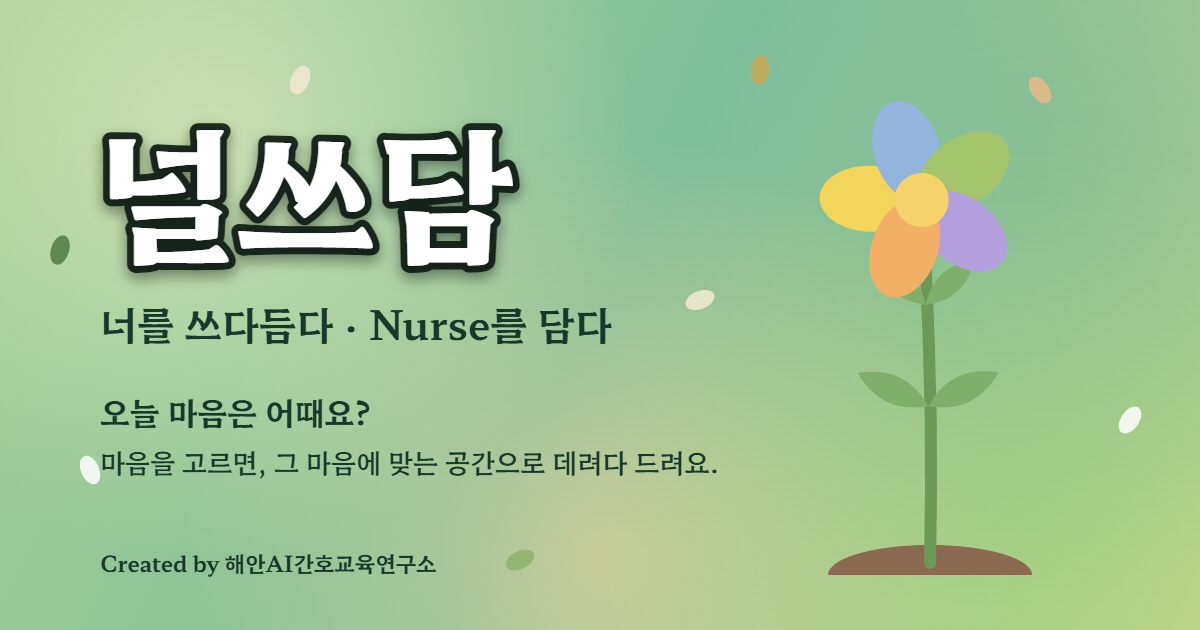
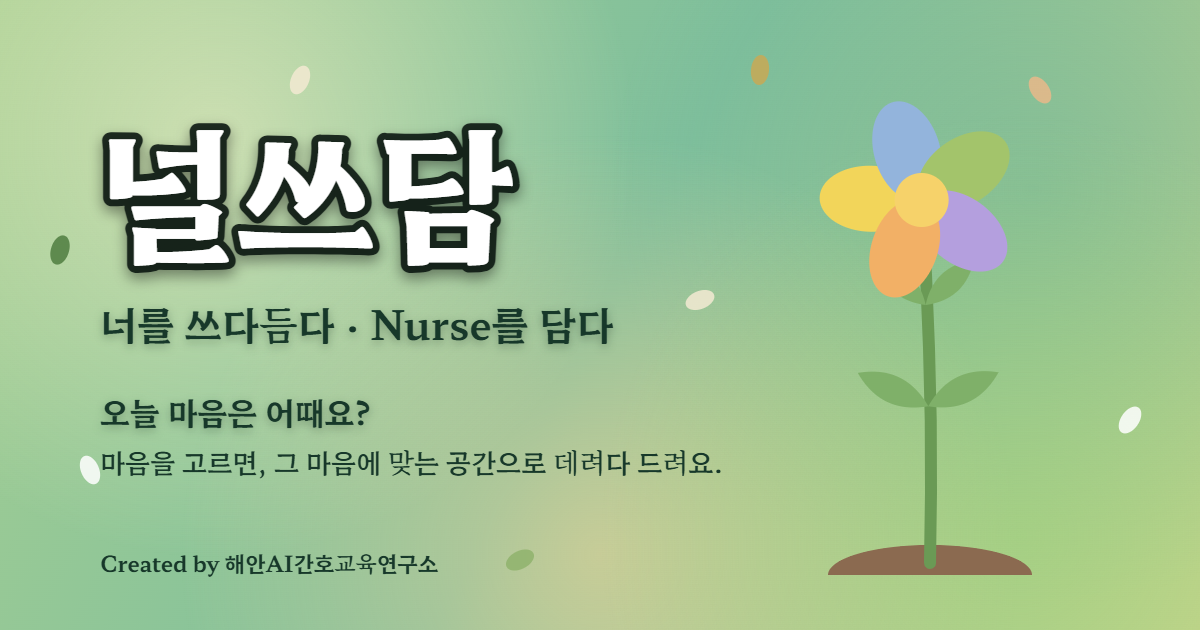
널쓰담: 링크 소개 그림의 부제와 질문에 은은한 그림자
- 그림 번호를 v=6으로 올림

diff --git a/nursedam.html b/nursedam.html
@@ -11,14 +11,14 @@
 <meta property="og:title" content="널쓰담 · 너를 쓰다듬다, Nurse를 담다">
 <meta property="og:description" content="오늘 마음은 어때요? 마음을 고르면, 그 마음에 맞는 공간으로 데려다 드려요.">
 <meta property="og:url" content="https://nursedam.vercel.app/">
-<meta property="og:image" content="https://nursedam.vercel.app/nursedam-og.png?v=5">
+<meta property="og:image" content="https://nursedam.vercel.app/nursedam-og.png?v=6">
 <meta property="og:image:width" content="1200">
 <meta property="og:image:height" content="630">
 <meta property="og:locale" content="ko_KR">
 <meta name="twitter:card" content="summary_large_image">
 <meta name="twitter:title" content="널쓰담 · 너를 쓰다듬다, Nurse를 담다">
 <meta name="twitter:description" content="오늘 마음은 어때요? 마음을 고르면, 그 마음에 맞는 공간으로 데려다 드려요.">
-<meta name="twitter:image" content="https://nursedam.vercel.app/nursedam-og.png?v=5">
+<meta name="twitter:image" content="https://nursedam.vercel.app/nursedam-og.png?v=6">
 <link rel="preconnect" href="https://fonts.googleapis.com">
 <link rel="preconnect" href="https://fonts.gstatic.com" crossorigin>
 <link href="https://fonts.googleapis.com/css2?family=Hahmlet:wght@400;500;600;700&display=swap" rel="stylesheet">
